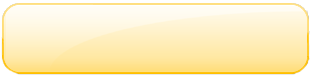
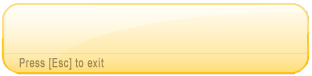
[Esc] = exit added.
git-svn-id: https://ecmojo.svn.sourceforge.net/svnroot/ecmojo@198 6adee215-725e-4b28-87c1-af44a2b16021

Changed region(s): [[0.0577, 0.7632, 0.3462, 0.9211]]

diff --git a/trunk/app/src/app/edu/hawaii/jabsom/tri/ecmo/app/state/GameStatePanel.java b/trunk/app/src/app/edu/hawaii/jabsom/tri/ecmo/app/state/GameStatePanel.java
@@ -13,8 +13,11 @@ import edu.hawaii.jabsom.tri.ecmo.app.view.TutorialPanel;
 
 import java.awt.BorderLayout;
 import java.awt.Image;
+import java.awt.KeyEventDispatcher;
+import java.awt.KeyboardFocusManager;
 import java.awt.event.ActionEvent;
 import java.awt.event.ActionListener;
+import java.awt.event.KeyEvent;
 
 import king.lib.access.ImageLoader;
 
@@ -24,7 +27,7 @@ import king.lib.access.ImageLoader;
  * @author   Christoph Aschwanden
  * @since    August 13, 2008
  */
-public class GameStatePanel extends JPanel implements ManagerListener {
+public class GameStatePanel extends JPanel implements ManagerListener, KeyEventDispatcher {
 
   /** The game state. */
   private GameState state;
@@ -63,15 +66,7 @@ public class GameStatePanel extends JPanel implements ManagerListener {
       ImageButton exitButton = new ImageButton(exitNormalImage, exitRolloverImage, exitSelectedImage);
       exitButton.addActionListener(new ActionListener() {
         public void actionPerformed(ActionEvent arg0) {
-          Goal goal = state.getManager().getGame().getGoal();
-          if (goal instanceof SimulationGoal) {
-            // and exit to menu
-            state.menuState();
-          }
-          else {
-            // exit to result state
-            state.resultState();
-          }
+          exit();
         }      
       });
       exitButton.setLocation(308, 18);
@@ -89,17 +84,55 @@ public class GameStatePanel extends JPanel implements ManagerListener {
     
     // add listener
     state.getManager().addManagerListener(this);
+    
+    // listen to key presses
+    KeyboardFocusManager.getCurrentKeyboardFocusManager().addKeyEventDispatcher(this);
   }
   
   /**
    * Called when panel is removed.
    */
   @Override
-  public void removeNotify() {
+  public void removeNotify() {  
+    // remove key listener
+    KeyboardFocusManager.getCurrentKeyboardFocusManager().removeKeyEventDispatcher(this);
+
     // remove listener
     state.getManager().removeManagerListener(this);
     
     super.removeNotify();
+  }
+  
+  /** 
+   * Listen to key events. 
+   * 
+   * @param event  The event.
+   * @return  True, if the event was handled.
+   */
+  public boolean dispatchKeyEvent(KeyEvent event) {
+    // handle key event
+    if (event.getKeyCode() == KeyEvent.VK_ESCAPE) {
+      // [ESC] = exit
+      exit();
+    }
+
+    // If the key should not be dispatched to the focused component, set discard event to true
+    return false;
+  }
+
+  /**
+   * Called when the state is exited.
+   */
+  public void exit() {
+    Goal goal = state.getManager().getGame().getGoal();
+    if (goal instanceof SimulationGoal) {
+      // and exit to menu
+      state.menuState();
+    }
+    else {
+      // exit to result state
+      state.resultState();
+    }
   }
   
   /**

diff --git a/trunk/app/src/app/edu/hawaii/jabsom/tri/ecmo/app/model/goal/TutorialGoal.java b/trunk/app/src/app/edu/hawaii/jabsom/tri/ecmo/app/model/goal/TutorialGoal.java
@@ -115,6 +115,14 @@ public class TutorialGoal extends Goal {
   }
   
   /**
+   * And exit the tutorial.
+   */
+  public void exit() {
+    progress = items.size();
+    notifyUpdate();
+  }
+  
+  /**
    * Handles an action. The following trigger actions are supported:
    * <p>
    *   Action:View:[Component]              viewing, where [Component] is "PumpComponent", "ACTComponent", "Patient"... 

diff --git a/trunk/app/src/app/edu/hawaii/jabsom/tri/ecmo/app/view/TutorialPanel.java b/trunk/app/src/app/edu/hawaii/jabsom/tri/ecmo/app/view/TutorialPanel.java
@@ -48,7 +48,7 @@ public class TutorialPanel extends JPanel implements TutorialListener, Runnable 
     box.addTutorialBoxListener(new TutorialBox.TutorialBoxListener() {
       public void handleAction() {
         // proceed to the next state
-       goal.proceed();
+        goal.proceed();
       }
     });
     box.setLocation(293, 2);
